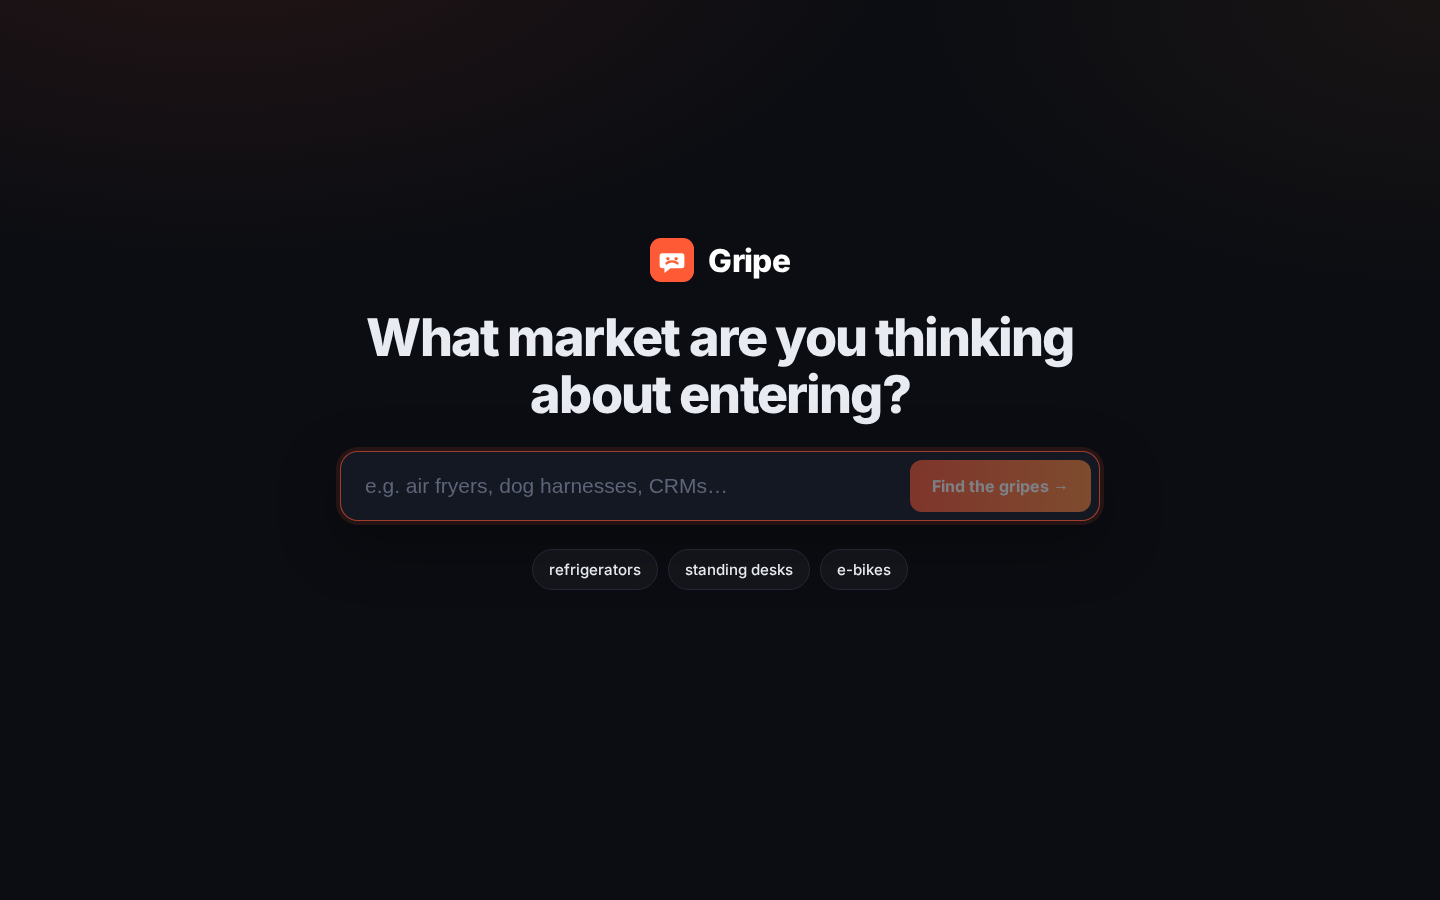
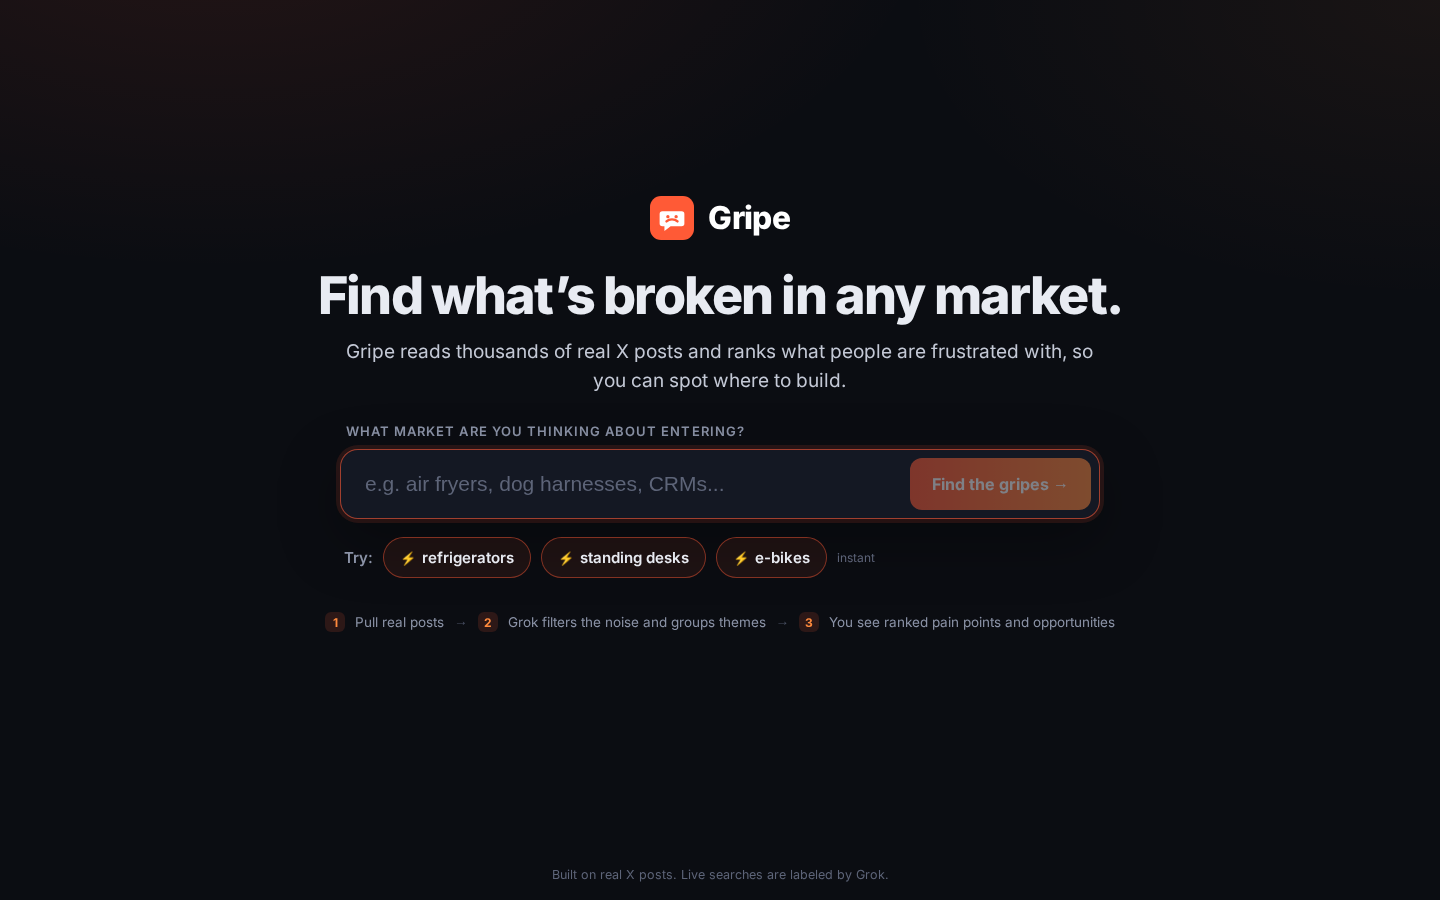
Landing page remake: headline, subline, instant cached-market chips, pipeline strip, truthful footer; fix signal grammar

diff --git a/frontend/src/components/Landing.jsx b/frontend/src/components/Landing.jsx
@@ -1,40 +1,77 @@
-import { useState } from 'react'
+import { useEffect, useState } from 'react'
+import { api } from '../api'
 import Logo from './Logo'
 
 export default function Landing({ onSubmit, examples, error }) {
   const [value, setValue] = useState('')
+  const [cached, setCached] = useState(examples)
+
+  useEffect(() => {
+    // Chips = markets already in the backend cache (instant); fall back to the built-in examples.
+    api
+      .topics()
+      .then((ts) => {
+        const names = ts.map((t) => t.topic)
+        if (!names.length) return
+        const ordered = [...examples.filter((e) => names.includes(e)), ...names.filter((n) => !examples.includes(n))]
+        setCached(ordered.slice(0, 6))
+      })
+      .catch(() => {})
+  }, [examples])
+
   return (
     <main className="landing">
       <div className="landing-inner">
         <Logo size={44} />
-        <h1 className="landing-title">What market are you thinking about entering?</h1>
-        <form
-          className="big-input"
-          onSubmit={(e) => {
-            e.preventDefault()
-            onSubmit(value)
-          }}
-        >
-          <input
-            autoFocus
-            value={value}
-            onChange={(e) => setValue(e.target.value)}
-            placeholder="e.g. air fryers, dog harnesses, CRMs…"
-            aria-label="Market"
-          />
-          <button type="submit" disabled={!value.trim()}>
-            Find the gripes <span aria-hidden>→</span>
-          </button>
-        </form>
-        <div className="chips">
-          {examples.map((x) => (
-            <button key={x} className="chip" onClick={() => onSubmit(x)}>
-              {x}
+        <div className="landing-copy">
+          <h1 className="landing-title">Find what’s broken in any market.</h1>
+          <p className="landing-sub">
+            Gripe reads thousands of real X posts and ranks what people are frustrated with, so you can spot where to build.
+          </p>
+        </div>
+        <div className="landing-form">
+          <label className="input-label" htmlFor="market">
+            What market are you thinking about entering?
+          </label>
+          <form
+            className="big-input"
+            onSubmit={(e) => {
+              e.preventDefault()
+              onSubmit(value)
+            }}
+          >
+            <input
+              id="market"
+              autoFocus
+              value={value}
+              onChange={(e) => setValue(e.target.value)}
+              placeholder="e.g. air fryers, dog harnesses, CRMs..."
+            />
+            <button type="submit" disabled={!value.trim()}>
+              Find the gripes <span aria-hidden>→</span>
             </button>
-          ))}
+          </form>
+          <div className="try-row">
+            <span className="try-label">Try:</span>
+            {cached.map((x) => (
+              <button key={x} className="chip chip-instant" onClick={() => onSubmit(x)} title="Cached, loads instantly">
+                <span className="bolt" aria-hidden>⚡</span>
+                {x}
+              </button>
+            ))}
+            <span className="instant-note">instant</span>
+          </div>
         </div>
         {error && <div className="error">{error}</div>}
+        <ol className="steps">
+          <li><b>1</b> Pull real posts</li>
+          <li className="step-arrow" aria-hidden>→</li>
+          <li><b>2</b> Grok filters the noise and groups themes</li>
+          <li className="step-arrow" aria-hidden>→</li>
+          <li><b>3</b> You see ranked pain points and opportunities</li>
+        </ol>
       </div>
+      <footer className="landing-foot">Built on real X posts. Live searches are labeled by Grok.</footer>
     </main>
   )
 }

diff --git a/frontend/src/index.css b/frontend/src/index.css
@@ -154,3 +154,22 @@ a:hover { text-decoration: underline; }
 .grok-btn { background: var(--ink); color: #0b0d12; text-decoration: none; font-weight: 650; padding: 10px 16px; border-radius: 10px; white-space: nowrap; }
 .toast { position: absolute; right: 22px; bottom: -14px; background: #151924; border: 1px solid #2a3040; border-radius: 10px; padding: 8px 12px; font-size: 13px; }
 @media (max-width: 800px) { .opp-subs, .opp-evidence { grid-template-columns: 1fr; } }
+
+/* Landing v2 */
+.landing { position: relative; }
+.landing-copy { display: flex; flex-direction: column; gap: 14px; align-items: center; }
+.landing-sub { margin: 0; color: #c4c9d6; font-size: clamp(16px, 1.6vw, 19px); line-height: 1.5; max-width: 620px; }
+.landing-form { width: 100%; display: flex; flex-direction: column; gap: 10px; text-align: left; }
+.input-label { font-size: 13px; text-transform: uppercase; letter-spacing: .08em; color: var(--muted); font-weight: 600; padding-left: 6px; }
+.try-row { display: flex; flex-wrap: wrap; align-items: center; gap: 10px; margin-top: 8px; padding-left: 4px; }
+.try-label { color: var(--muted); font-size: 15px; font-weight: 600; }
+.chip-instant { display: inline-flex; align-items: center; gap: 6px; font-weight: 600; border-color: rgba(255, 90, 54, 0.45); background: rgba(255, 90, 54, 0.08); }
+.chip-instant .bolt { font-size: 13px; }
+.instant-note { font-size: 12px; color: #5d6478; }
+.steps { list-style: none; padding: 0; margin: 6px 0 0; display: flex; flex-wrap: wrap; justify-content: center; align-items: center; gap: 10px; font-size: 13.5px; color: var(--muted); }
+.steps b { display: inline-grid; place-items: center; width: 20px; height: 20px; margin-right: 6px; border-radius: 6px; background: rgba(255,90,54,.14); color: var(--accent2); font-size: 12px; }
+.step-arrow { color: #4a5164; }
+.landing-foot { position: absolute; bottom: 18px; left: 0; right: 0; text-align: center; color: #5d6478; font-size: 12.5px; }
+.landing-inner { width: min(860px, 100%); }
+.landing-form, .landing-sub { max-width: 760px; }
+@media (min-width: 900px) { .steps { flex-wrap: nowrap; white-space: nowrap; } }

diff --git a/frontend/src/api.js b/frontend/src/api.js
@@ -15,4 +15,5 @@ export const api = {
   dig: (topic, suggestion) =>
     req('/dig', { method: 'POST', headers: { 'Content-Type': 'application/json' }, body: JSON.stringify({ topic, suggestion }) }),
   health: () => req('/health'),
+  topics: () => req('/topics'),
 }

diff --git a/backend/app/opportunities.py b/backend/app/opportunities.py
@@ -83,11 +83,11 @@ def signal_summary(t):
     parts = []
     s = t["signals"]
     if s["money"]:
-        parts.append(f"{s['money']} mention $ amounts")
+        parts.append(f"{s['money']} mention{'s' if s['money'] == 1 else ''} $ amounts")
     if s["repeat"]:
-        parts.append(f"{s['repeat']} describe repeat failures")
+        parts.append(f"{s['repeat']} describe{'s' if s['repeat'] == 1 else ''} repeat failures")
     if s["switching"]:
-        parts.append(f"{s['switching']} say never again / switching / returning")
+        parts.append(f"{s['switching']} {'says' if s['switching'] == 1 else 'say'} never again / switching / returning")
     eng = f"{t['likes']:,} likes, {t['reposts']:,} reposts"
     return (", ".join(parts) + " · " if parts else "no strong-language signals · ") + eng
 
